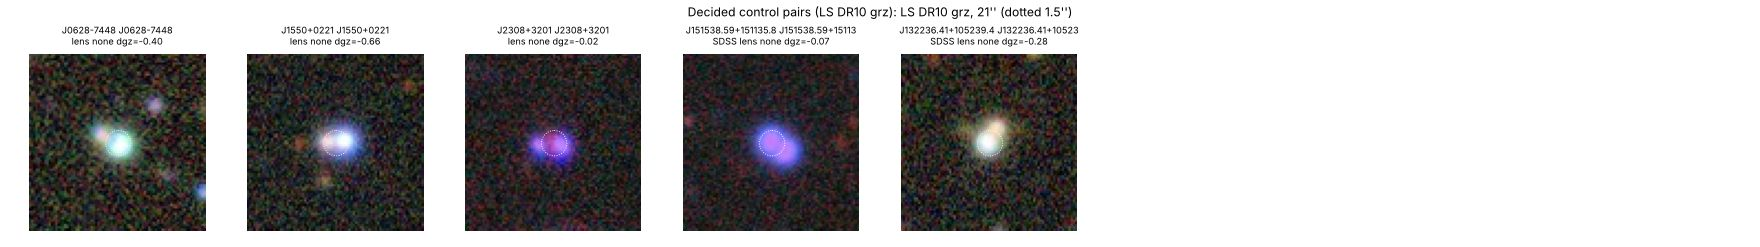
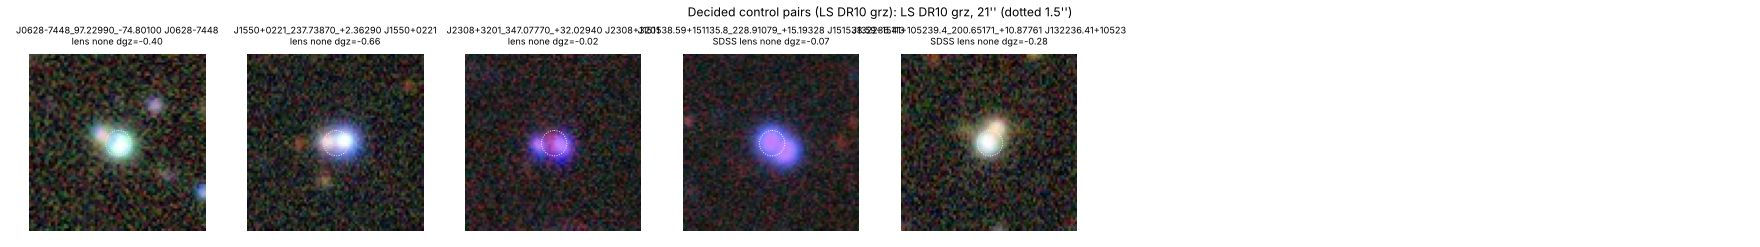
w12_niq review fixes: --repin re-downloads, name-vs-position check enabled, lens (?) undecided, required Lemon columns, no-colour count, position-keyed cutouts, testable member kept in dedup
Claude-Session: https://claude.ai/code/session_019LSe4iFhMM71ebevsjGfnY

Changed region(s): [[0.0, 0.085, 0.6562, 0.1417]]

diff --git a/scripts/w12_niq.py b/scripts/w12_niq.py
@@ -58,9 +58,11 @@ INPUTS = {
     "J/AJ/143/119/table3": "SQLS-DR7",
     "J/AJ/143/119/table4": "SQLS-DR7",
 }
+LEMON_COLUMNS = {"Name", "RAJ2000", "DEJ2000", "z", "f_z", "Sep", "Class", "z2", "n_z2", "f_z2"}
+SQLS_COLUMNS = {"SDSS", "z", "theta", "Com"}
 HENNAWI = "J/AJ/131/1/binqso"  # binary-quasar catalogue for vetting (Hennawi et al. 2006)
 LEMON_REJECTED = {"UQP", "UQP (?)", "QSO pair"}
-LEMON_CONTROL = {"lens", "quad", "lens (?)"}
+LEMON_CONTROL = {"lens", "quad"}  # "lens (?)" is undecided: neither control nor veto
 # lenses the quasar pair test cannot decide (extended images): they promote a merged rejection to
 # control, then leave the sample
 LEMON_OTHER_LENS = {"lensed gal."}
@@ -147,6 +149,8 @@ def check_vizier(data: bytes, source: str, path: Path) -> None:
 def fetch(source: str, out: Path, pins: dict[str, str] | None) -> tuple[Path, dict]:
     """Download (or reuse) one VizieR table; refuse it if it differs from the pin."""
     f = out / (source.replace("/", "_") + ".tsv")
+    if pins is None and f.exists():
+        f.unlink()  # --repin pins a fresh download, never a stale cache
     if not f.exists():
         r = requests.get(VIZIER.format(source), timeout=300)
         r.raise_for_status()
@@ -196,12 +200,12 @@ def _float(x) -> float:
 
 def sdss_name_radec(name: str) -> tuple[float, float]:
     """RA, Dec (deg) from an SDSS name ``Jhhmmss.ss+ddmmss.s``."""
-    m = re.match(r"J?(\d{2})(\d{2})(\d{2}\.\d+)([+-])(\d{2})(\d{2})(\d{2}(?:\.\d+)?)", name)
+    m = re.match(r"J?(\d{2})(\d{2})(\d{2}(?:\.\d+)?)([+-])(\d{2})(\d{2})(\d{2}(?:\.\d+)?)?", name)
     if not m:
         return np.nan, np.nan
     hh, mm, ss, sg, dd, dm, ds = m.groups()
     ra = 15 * (int(hh) + int(mm) / 60 + float(ss) / 3600)
-    dec = int(dd) + int(dm) / 60 + float(ds) / 3600
+    dec = int(dd) + int(dm) / 60 + (float(ds) if ds else 0.0) / 3600
     return ra, (-dec if sg == "-" else dec)
 
 
@@ -261,10 +265,9 @@ def sqls_redshifts(t: Table, r, prim: np.ndarray | None = None) -> tuple[float, 
 def lemon_second_qso_z(r) -> float:
     """Lemon et al. 2023 ``z2``: a second quasar redshift when ``n_z2`` is blank (or "zqso="),
     otherwise a lens or galaxy redshift ("z_lens=", "zgal="); flagged values are not used."""
-    n = r["n_z2"].strip() if "n_z2" in r.colnames else ""
-    flags = "".join(r[c].strip() for c in ("f_z", "f_z2") if c in r.colnames)
-    if (n == "" or n.startswith("zqso")) and not flags:
-        return _float(r["z2"]) if "z2" in r.colnames else np.nan
+    n = r["n_z2"].strip()  # columns are required (build_sample checks LEMON_COLUMNS)
+    if (n == "" or n.startswith("zqso")) and not (r["f_z"].strip() or r["f_z2"].strip()):
+        return _float(r["z2"])
     return np.nan
 
 
@@ -288,6 +291,9 @@ def build_sample(tables: dict[str, Table]) -> Table:
     for source, t in tables.items():
         label = INPUTS[source]
         prim = primary_rows(t) if label != "Lemon2023" else None
+        need = {"Lemon2023": LEMON_COLUMNS}.get(label, SQLS_COLUMNS) - set(t.colnames)
+        if need:
+            raise ValueError(f"{source}: missing columns {sorted(need)}")
         for r in t:
             if label == "Lemon2023":
                 cls = r["Class"]
@@ -361,7 +367,10 @@ def build_sample(tables: dict[str, Table]) -> Table:
     s["selection"] = "quasar"
     s["z_lens"] = np.nan
     s["theta_e"] = s["sep_cat"] / 2  # SIS model_prediction from the catalogued separation
-    s["name_offset"] = 0.0
+    s["name_offset"] = [  # designation vs position: w12.flags_undecided flags > 5"
+        lenscats.name_position_offset(n, a, d)
+        for n, a, d in zip(s["name"], s["ra"], s["dec"], strict=True)
+    ]
     s["pos_quantum"] = [
         lenscats.position_quantum_arcsec(a, d) for a, d in zip(s["ra"], s["dec"], strict=True)
     ]
@@ -400,7 +409,9 @@ def dedup(s: Table) -> Table:
             k = members[np.argmax(lens)]
             new, note = "control", " | listed as lens elsewhere" if not lens[0] else ""
         elif rej.any() and not lemon_nonpair.any():
-            k, new, note = members[np.argmax(rej)], "rejected", ""
+            sep = np.asarray(s["sep_cat"][members], float)
+            usable = rej & (sep <= P.sep_max)  # the member describing the testable pair
+            k, new, note = members[np.argmax(usable if usable.any() else rej)], "rejected", ""
         else:
             k, new, note = members[0], "nonpair", ""
         s["group"][k] = new
@@ -431,13 +442,15 @@ def sheet(t: Table, out: Path, path: Path, title: str) -> None:
     cut = out / "cutouts"
     cut.mkdir(exist_ok=True)
     t = t.copy()
-    t["system_id"] = t["name"]
+    t["system_id"] = [  # cutout cache key: name and position (a moved row gets a new image)
+        f"{n}_{a:.5f}_{d:+.5f}" for n, a, d in zip(t["name"], t["ra"], t["dec"], strict=True)
+    ]
     t["label"] = [
         f"{c[:18]} {s} dgz={g:.2f}"
         for c, s, g in zip(t["comment"], t["test_status"], t["dgz"], strict=True)
     ]
     for r in t:
-        w12.fetch_cutout(float(r["ra"]), float(r["dec"]), cut / f"{r['name']}.jpg")
+        w12.fetch_cutout(float(r["ra"]), float(r["dec"]), cut / f"{r['system_id']}.jpg")
     png = out / (path.stem + ".png")
     w12.contact_sheet(t, cut, png, title)
     Image.open(png).convert("RGB").save(path, quality=80)
@@ -592,6 +605,7 @@ def cmd_screen(args) -> None:
             "none": int(none.sum()),
             "none_colour_match": int(cm.sum()),
             "none_colour_mismatch": int((none & sc["colour_mismatch"]).sum()),
+            "none_no_colour": int((none & ~sc["colour_match"] & ~sc["colour_mismatch"]).sum()),
             "pair_mismatch": int(
                 (m & np.isin(sc["test_status"], ["deflector", "none"]) & ~sc["pair_match"]).sum()
             ),

diff --git a/tests/test_w12_niq.py b/tests/test_w12_niq.py
@@ -24,6 +24,7 @@ def test_sdss_name_radec():
     assert dec == pytest.approx(10 + 52 / 60 + 39.4 / 3600)
     assert niq.sdss_name_radec("J212956.56-005152.4")[1] < 0
     assert np.isnan(niq.sdss_name_radec("not a name")[0])
+    assert niq.sdss_name_radec("J132236+105239")[1] == pytest.approx(10 + 52 / 60 + 39 / 3600)
 
 
 @pytest.mark.parametrize(
@@ -60,9 +61,9 @@ def test_read_tsv_skips_units_and_dashes(tmp_path):
 
 def _lemon(rows):
     return Table(
-        rows=[r + ("", "") for r in rows],
-        names=("Name", "RAJ2000", "DEJ2000", "z", "Sep", "Class", "z2", "f_z"),
-        dtype=[str] * 8,
+        rows=[r + ("", "", "", "") for r in rows],
+        names=("Name", "RAJ2000", "DEJ2000", "z", "Sep", "Class", "z2", "f_z", "n_z2", "f_z2"),
+        dtype=[str] * 10,
     )
 
 
@@ -284,3 +285,13 @@ def test_sqls_newer_nonpair_row_does_not_veto_older_rejection():
     )
     s = niq.build_sample({"J/AJ/143/119/table4": dr7, "J/AJ/140/403/table3": dr5})
     assert list(s["group"]) == ["rejected"] and s["catalogue"][0] == "SQLS-DR5"
+
+
+def test_lemon_table_without_flag_columns_is_refused():
+    t = Table(
+        rows=[("Q", "150.0", "1.0", "1.5", "2.2", "UQP", "1.4")],
+        names=("Name", "RAJ2000", "DEJ2000", "z", "Sep", "Class", "z2"),
+        dtype=[str] * 7,
+    )
+    with pytest.raises(ValueError):
+        niq.build_sample({"J/MNRAS/520/3305/table1": t})

diff --git a/docs/exotic_limits.md b/docs/exotic_limits.md
@@ -1022,7 +1022,8 @@ The ordinary explanations are binary quasars, unrelated pairs and lens galaxies 
 **Method.**
 - Inputs:
   - rejected: 124 pairs;
-  - control: 107 real quasar lenses (Lemon lens/quad, SQLS "SDSS lens"/"known lens");
+  - control: 106 real quasar lenses (Lemon lens/quad, SQLS "SDSS lens"/"known lens"; Lemon "lens (?)" is
+    undecided and left out);
   - entries within 3″ are merged transitively. A group containing a catalogued lens is a control. A rejection that
     Lemon classifies as a non-pair (QSO+star, projected, …) is dropped: this applied to J0947+0247, which Lemon
     classifies as "QSO + star". Undecided Lemon classes ("?") and SQLS non-pair companion rows do not veto.
@@ -1044,13 +1045,13 @@ The ordinary explanations are binary quasars, unrelated pairs and lens galaxies 
 | Sample | covered | blended | too close (< 2″) | decided | deflector | none | none, colours match |
 |---|---|---|---|---|---|---|---|
 | rejected | 88 | 17 | 46 | 24 | 0 | 24 | 14 |
-| control (real lenses) | 80 | 46 | 29 | 5 | **0** | 5 | 4 |
+| control (real lenses) | 79 | 45 | 29 | 5 | **0** | 5 | 4 |
 
 - **The test does not find real lens galaxies at these separations.** All 5 decided control lenses (1.9–2.6″;
   J0628−7448, J1550+0221, J2308+3201, SDSS J1322+1052, SDSS J1515+1511) give "none". Their required typical
   m_z ≈ 19.2–19.8 is ~3 mag brighter than the depth, yet the contact sheet shows the lens light blended into the
   images, and Tractor fits the blend as two point sources. Measured efficiency for an ordinary lens: **0 / 5 (95 %
-  upper bound 0.45)**. A further 46 control lenses are "blended" (fewer than two PSF images). A "none" at ≤ 3″ in LS
+  upper bound 0.45)**. A further 45 control lenses are "blended" (fewer than two PSF images). A "none" at ≤ 3″ in LS
   DR10 therefore carries no information about a dark deflector.
 - Ordinary explanations among the 24 rejected "none" pairs:
   - 10 have mismatched colours (blue+orange on the contact sheet: unrelated objects, not lens images);

diff --git a/CHANGELOG.md b/CHANGELOG.md
@@ -4,18 +4,14 @@ Newest first. Results, failed approaches and the handoff state; not a diary.
 
 ## 2026-10-08: W1/W2 in rejected lensed-quasar pairs: LS DR10 cannot decide them (D-064)
 - Hypothesis: a dark deflector hides among pairs rejected as lenses for lack of a lens galaxy (Lemon 2023 UQP/QSO
-  pair; SQLS "no lensing object", "QSO pair", "binary"). 124 rejected and 107 control lenses (≤ 3″) went through the
+  pair; SQLS "no lensing object", "QSO pair", "binary"). 124 rejected and 106 control lenses (≤ 3″) went through the
   D-056 chain.
 - **Control efficiency 0 / 5** (1.9–2.6″; lens light blended into the images, fitted as PSFs): an LS "none" at these
   separations carries no information. Rejected: 24 "none". Of these, 10 are colour-mismatched, 2 are catalogued
   binaries and 1 has two redshifts; 11 are untestable. No limit, no candidate.
-- **Failed approaches and bugs (fixed):**
-  - the Hennawi sexagesimal coordinates silently matched nothing;
-  - pairs wider than the image search were tested on unrelated LS pairs;
-  - the raw-TSV hash could never verify (the header carries the request time);
-  - the greedy dedup was not transitive;
-  - Lemon `z2` semantics (a blank `n_z2` marks a second quasar; "z_lens="/"zgal=" are other objects);
-  - classifications as non-pairs in another catalogue were ignored.
+- **Failed approaches:** several input-format traps (sexagesimal Hennawi coordinates, SQLS two-row pairs, Lemon
+  `z2` semantics, time-stamped VizieR headers) and sample-definition bugs were caught in review and fixed; the list is
+  in D-064 "Evidence".
 - **Next:** HST/Euclid/HSC image models or spectra for the 11 colour-matched pairs; the LaTeX-only NIQ tables.
 
 ## 2026-10-08: Governance — owner decisions on scope, parallelism, cloud disk and layout
